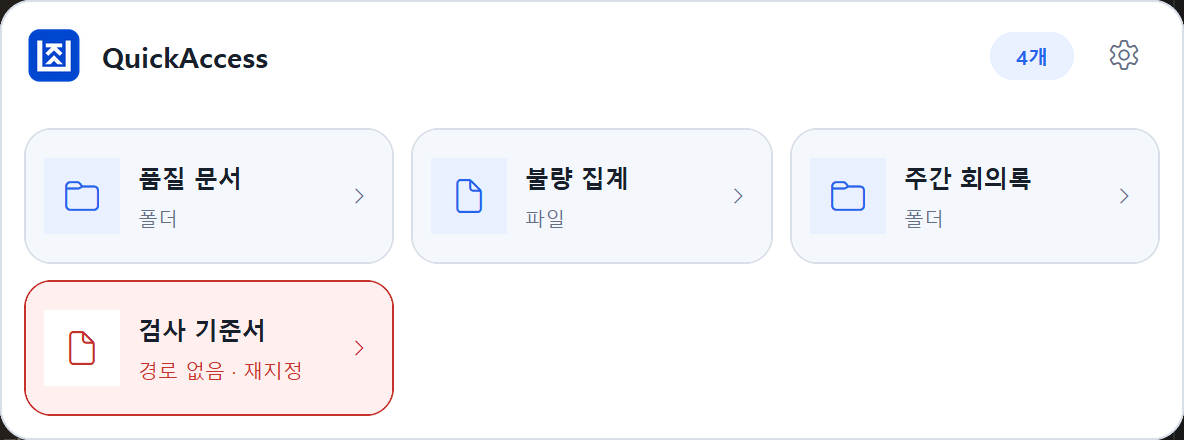
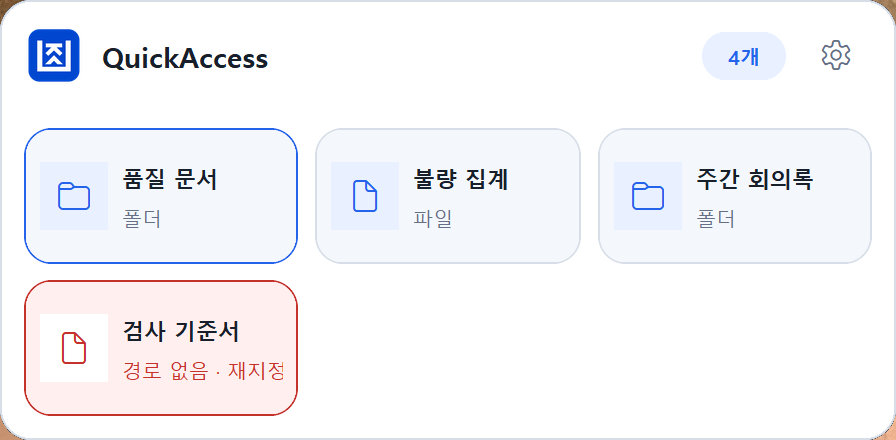
feat: compact popup launcher cards

diff --git a/quickaccess/ui/popup.py b/quickaccess/ui/popup.py
@@ -38,7 +38,7 @@ from .theme import (
 )
 
 
-BUTTON_WIDTH = 184
+BUTTON_WIDTH = 136
 BUTTON_HEIGHT = 68
 GAP = 8
 PADDING = 12
@@ -48,7 +48,6 @@ HEADER_GAP = 10
 _GLYPH_FOLDER = "\uE8B7"
 _GLYPH_FILE = "\uE8A5"
 _GLYPH_SETTINGS = "\uE713"
-_GLYPH_CHEVRON = "\uE76C"
 _TRANSPARENT_KEY = "#010203"
 
 
@@ -196,26 +195,26 @@ class _LauncherCard(ctk.CTkFrame):
 
         icon_tile = ctk.CTkFrame(
             self,
-            width=38,
-            height=38,
-            corner_radius=11,
+            width=34,
+            height=34,
+            corner_radius=10,
             fg_color=SURFACE if self._broken else ACCENT_SOFT,
         )
-        icon_tile.grid(row=0, column=0, rowspan=2, padx=(10, 9), pady=14)
+        icon_tile.grid(row=0, column=0, rowspan=2, padx=(8, 7), pady=16)
         icon_tile.grid_propagate(False)
         if icon is not None and not self._broken:
             # A real shell icon is only shown once one has actually been
             # extracted; the broken-path glyph coloring always wins so the
             # card still reads as needing attention.
-            icon_label = ctk.CTkLabel(icon_tile, text="", image=icon, width=38, height=38)
+            icon_label = ctk.CTkLabel(icon_tile, text="", image=icon, width=34, height=34)
         else:
             glyph = _GLYPH_FOLDER if item.type == "folder" else _GLYPH_FILE
             icon_label = ctk.CTkLabel(
                 icon_tile,
                 text=glyph,
-                width=38,
-                height=38,
-                font=icon_font(17),
+                width=34,
+                height=34,
+                font=icon_font(16),
                 text_color=self._resting_border if self._broken else ACCENT,
             )
         icon_label.pack(fill="both", expand=True)
@@ -223,13 +222,13 @@ class _LauncherCard(ctk.CTkFrame):
 
         name_label = ctk.CTkLabel(
             self,
-            text=_ellipsize(item.name),
+            text=_ellipsize(item.name, 10),
             height=22,
-            font=font(12, "bold"),
+            font=font(11, "bold"),
             text_color=TEXT,
             anchor="w",
         )
-        name_label.grid(row=0, column=1, padx=(0, 4), pady=(11, 0), sticky="sew")
+        name_label.grid(row=0, column=1, padx=(0, 8), pady=(11, 0), sticky="sew")
         status_label = ctk.CTkLabel(
             self,
             text=_status_text(item, status),
@@ -238,16 +237,7 @@ class _LauncherCard(ctk.CTkFrame):
             text_color=self._status_color,
             anchor="w",
         )
-        status_label.grid(row=1, column=1, padx=(0, 4), pady=(0, 11), sticky="new")
-
-        chevron = ctk.CTkLabel(
-            self,
-            text=_GLYPH_CHEVRON,
-            width=22,
-            font=icon_font(10),
-            text_color=self._status_color,
-        )
-        chevron.grid(row=0, column=2, rowspan=2, padx=(0, 7), sticky="e")
+        status_label.grid(row=1, column=1, padx=(0, 8), pady=(0, 11), sticky="new")
 
         self._interactive_widgets: tuple[tk.Misc, ...] = (
             self,
@@ -255,7 +245,6 @@ class _LauncherCard(ctk.CTkFrame):
             icon_label,
             name_label,
             status_label,
-            chevron,
         )
         for widget in self._interactive_widgets:
             widget.bind("<Button-1>", self._invoke, add="+")
@@ -491,7 +480,7 @@ class PopupPanel(ctk.CTkToplevel):
         shell.grid_columnconfigure(0, weight=1)
         shell.grid_rowconfigure(1, weight=1)
 
-        self._build_header(shell, len(config.items))
+        self._build_header(shell, len(config.items), compact=columns == 1)
 
         rows = max(1, math.ceil(len(config.items) / columns))
         self._layout_columns = columns
@@ -572,7 +561,13 @@ class PopupPanel(ctk.CTkToplevel):
         finally:
             self._arming_focus = False
 
-    def _build_header(self, shell: ctk.CTkFrame, item_count: int) -> None:
+    def _build_header(
+        self,
+        shell: ctk.CTkFrame,
+        item_count: int,
+        *,
+        compact: bool,
+    ) -> None:
         header = ctk.CTkFrame(
             shell,
             height=HEADER_HEIGHT,
@@ -586,36 +581,37 @@ class PopupPanel(ctk.CTkToplevel):
         brand_mark = ctk.CTkLabel(
             header,
             text="",
-            image=brand_image(30),
-            width=30,
-            height=30,
+            image=brand_image(24 if compact else 30),
+            width=24 if compact else 30,
+            height=24 if compact else 30,
             fg_color="transparent",
         )
-        brand_mark.grid(row=0, column=0, padx=(0, 9))
+        brand_mark.grid(row=0, column=0, padx=(0, 6 if compact else 9))
         ctk.CTkLabel(
             header,
             text="QuickAccess",
-            font=font(14, "bold"),
+            font=font(12 if compact else 14, "bold"),
             text_color=TEXT,
             anchor="w",
         ).grid(row=0, column=1, sticky="w")
-        ctk.CTkLabel(
-            header,
-            text=f"{item_count}개",
-            width=42,
-            height=24,
-            corner_radius=12,
-            fg_color=ACCENT_SOFT,
-            text_color=ACCENT,
-            font=font(10, "bold"),
-        ).grid(row=0, column=2, padx=(8, 7))
+        if not compact:
+            ctk.CTkLabel(
+                header,
+                text=f"{item_count}개",
+                width=42,
+                height=24,
+                corner_radius=12,
+                fg_color=ACCENT_SOFT,
+                text_color=ACCENT,
+                font=font(10, "bold"),
+            ).grid(row=0, column=2, padx=(8, 7))
         ctk.CTkButton(
             header,
             text=_GLYPH_SETTINGS,
-            width=32,
-            height=32,
-            corner_radius=10,
-            font=icon_font(15),
+            width=28 if compact else 32,
+            height=28 if compact else 32,
+            corner_radius=9 if compact else 10,
+            font=icon_font(14 if compact else 15),
             fg_color="transparent",
             hover_color=SURFACE_HOVER,
             text_color=MUTED,

diff --git a/tests/test_ui_helpers.py b/tests/test_ui_helpers.py
@@ -52,6 +52,9 @@ class PopupDimensionsTests(unittest.TestCase):
         self.assertGreater(height, 2 * BUTTON_HEIGHT)
         self.assertGreaterEqual(viewport, BUTTON_HEIGHT)
 
+    def test_launcher_cards_are_no_wider_than_two_to_one(self) -> None:
+        self.assertLessEqual(BUTTON_WIDTH / BUTTON_HEIGHT, 2.0)
+
     def test_reduces_columns_when_item_count_is_smaller(self) -> None:
         _width, _height, columns, _viewport = popup_dimensions(
             1,
@@ -68,7 +71,7 @@ class PopupDimensionsTests(unittest.TestCase):
         )
         self.assertLessEqual(width, 624)
         self.assertLessEqual(height, 344)
-        self.assertEqual(columns, 3)
+        self.assertEqual(columns, 4)
 
     def test_empty_state_keeps_a_compact_readable_width(self) -> None:
         width, height, columns, viewport = popup_dimensions(

diff --git a/quickaccess/__init__.py b/quickaccess/__init__.py
@@ -3,7 +3,7 @@
 from .models import AppearanceMode, LauncherConfig, LauncherItem
 from .storage import ConfigStore, LoadResult
 
-__version__ = "1.1.0"
+__version__ = "1.1.1"
 
 __all__ = [
     "ConfigStore",
